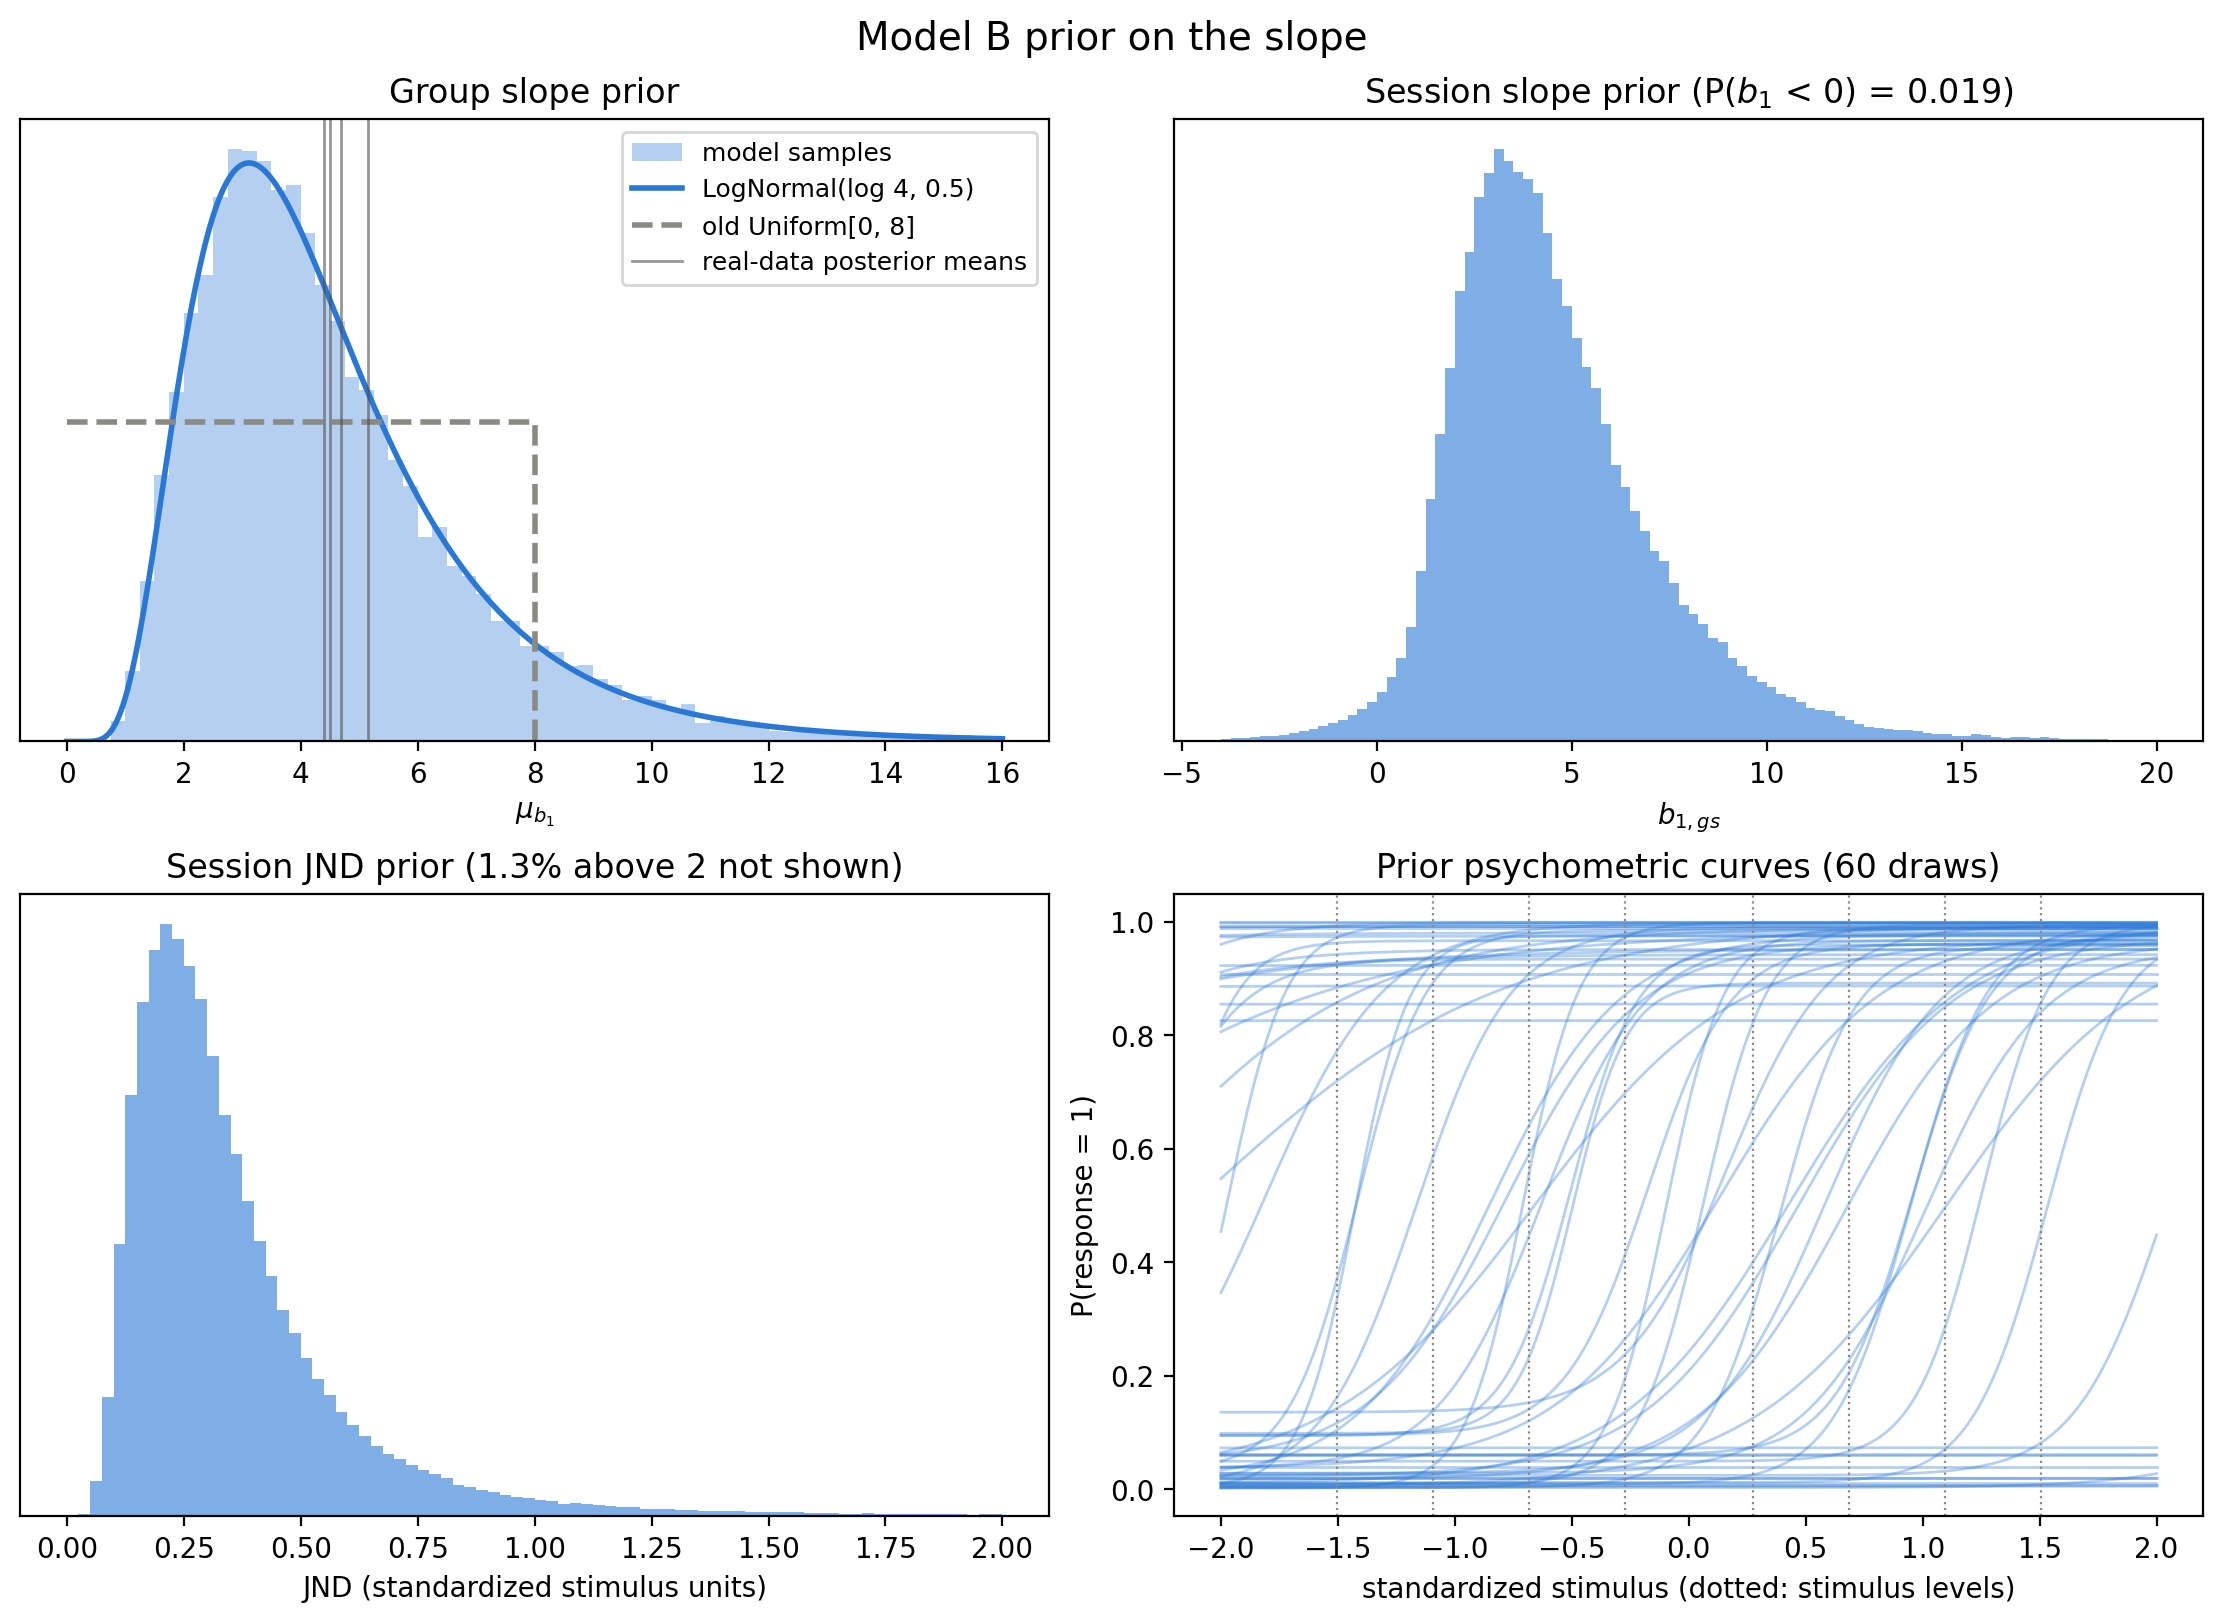
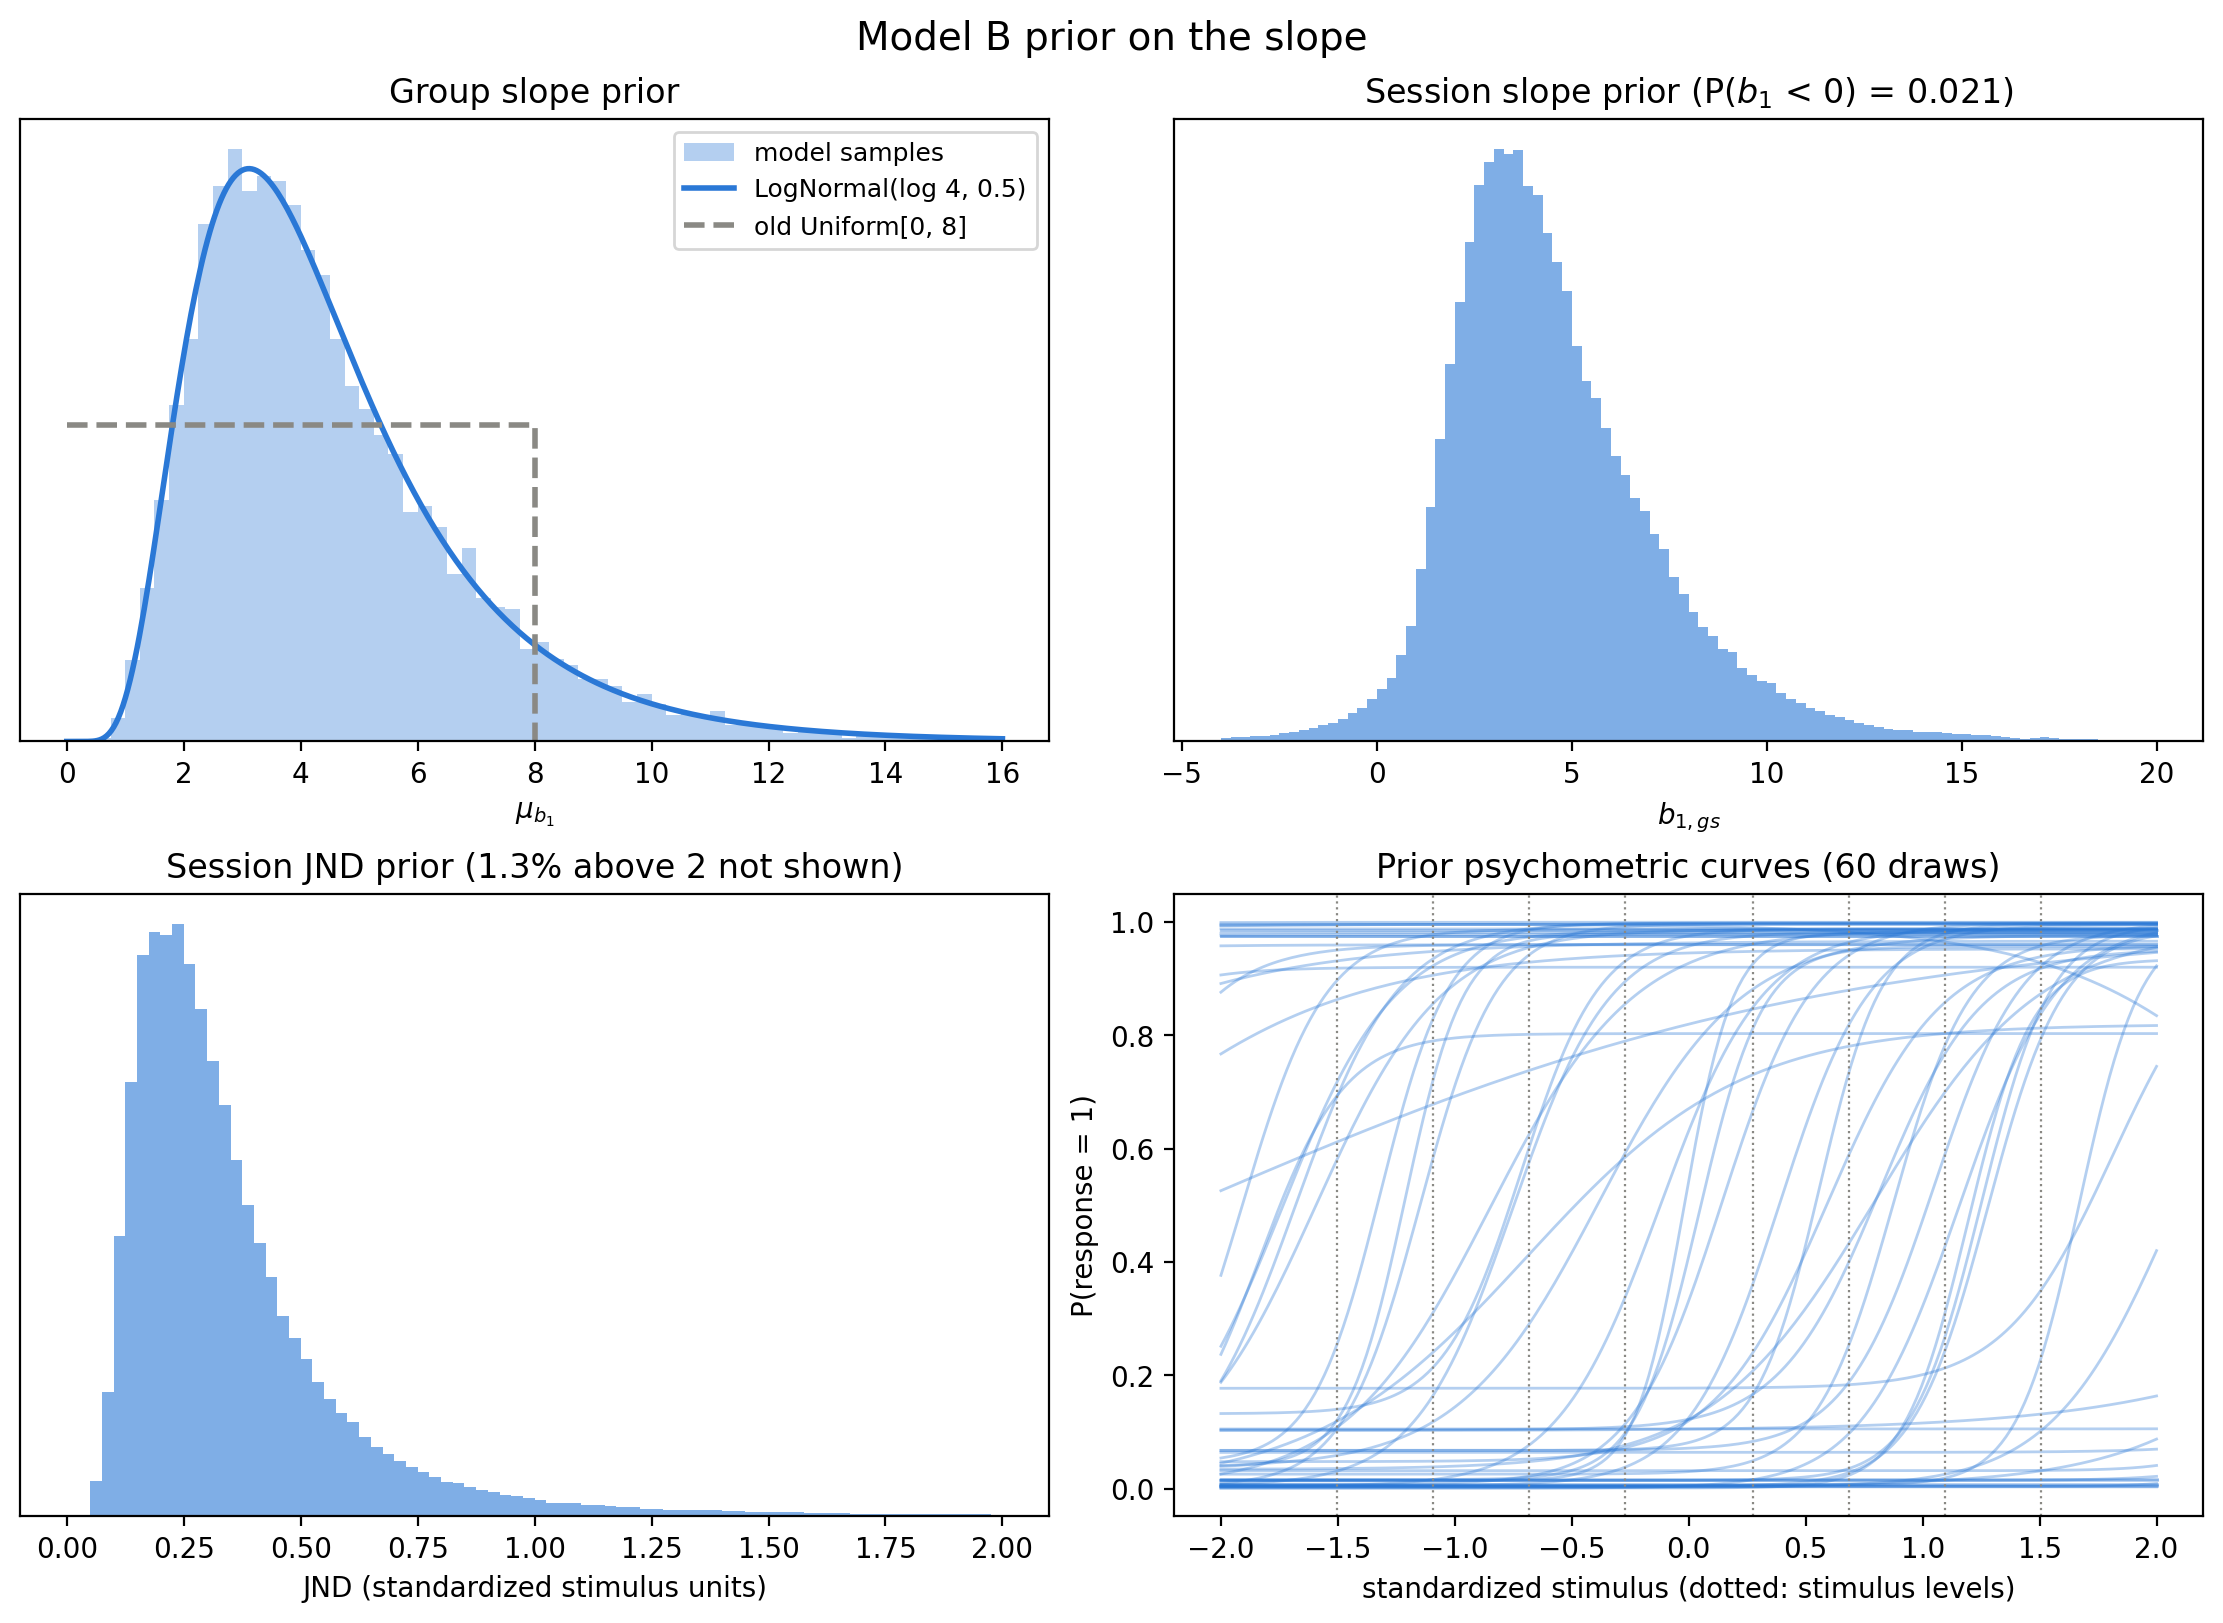
Claude: Widen the Model B lapse-rate prior and add a lapse prior check
mu_gam (for both gam_h and gam_l) had a N(-2.5, 1) prior. The
convergence study found mu_gam_l overestimated for the left-hand
groups, where the data hold only a couple of lapses per stimulus level
and a narrow prior dominates. mu_gam now has a N(-3, 1.5) prior: the
typical lapse rate 0.25 * logit^-1(mu_gam) has median 0.012 and 95%
range [0.0007, 0.12], chosen from domain knowledge (trained animals
lapse on a few percent of trials, rarely above ~10%) rather than from
the real-data fit.

Check_Prior_B.py:
- New cell plotting the typical and session-level lapse-rate priors,
  sampled from the model, against the old prior; saved as
  Plots_B/Prior_Check_B_lapse.png. Histograms use the fraction of
  samples per bin, since density=True distorts log-spaced bins.
- The real-data mu_b1 overlay is removed from the slope prior plot, so
  the prior checks don't lean on the fitted data.
- The quick lapse-rate cell at the top uses the new values.

Convergence_B_Report.txt lists the new mu_gam prior among the priors
changed since the simulations, and follow-up 2 notes the change.

diff --git a/Model_B/Check_Prior_B.py b/Model_B/Check_Prior_B.py
@@ -31,7 +31,7 @@ z_s = z_all[:,0]
 z_mu = z_all[:,1]
 z_sig = z_all[:,2]
 
-mu_gam = 1*z_mu+(-2.5)
+mu_gam = 1.5*z_mu+(-3)
 sig_gam = np.abs(1.25*z_sig)
 gam_samps = 0.25*(1 / (1 + np.exp(-(sig_gam*z_s+mu_gam))))
 
@@ -39,7 +39,8 @@ gam_samps = 0.25*(1 / (1 + np.exp(-(sig_gam*z_s+mu_gam))))
 plt.hist(gam_samps, density=True, bins=20)
 
 
-#%% SLOPE PRIOR: mu_b1 ~ LogNormal(log 4, 0.5), sig_b1 ~ Exp(mean 1), sampled from the actual model on the real design
+#%% SLOPE AND LAPSE PRIORS, sampled from the actual model on the real design
+# mu_b1 ~ LogNormal(log 4, 0.5), sig_b1 ~ Exp(mean 1), mu_gam ~ N(-3, 1.5)
 
 from pathlib import Path
 from scipy.stats import lognorm
@@ -59,7 +60,7 @@ sess_idx = data_dict['sess_idx']
 exec(open(MODEL_DIR / "Build_Model_B.py").read())
 
 with model_B:
-    prior = pm.sample_prior_predictive(draws=4000, var_names=['mu_betas', 'sig_betas', 'beta_vec', 'gam_h', 'gam_l', 'JND'],
+    prior = pm.sample_prior_predictive(draws=4000, var_names=['mu_betas', 'sig_betas', 'beta_vec', 'mu_gams', 'gam_h', 'gam_l', 'JND'],
                                        random_seed=1).prior
 
 mu_b1_samps = prior['mu_betas'].sel(betas='b1').values.ravel()
@@ -72,11 +73,8 @@ print(f"sig_b1 prior: mean {sig_b1_samps.mean():.2f}, 95% interval {np.round(np.
 print(f"session b1 prior: P(b1 < 0) = {np.mean(b1_samps < 0):.3f}")
 print(f"session JND prior (finite, b1 > 0): median {np.median(jnd_samps[b1_samps > 0]):.2f}")
 
-# real-data posterior means of mu_b1, from the fit with the old Uniform[0, 8] prior
-real_summary = pickle.load(open(MODEL_DIR / "Results_B.pkl", "rb"))['az_summary_trace']
-real_mu_b1 = real_summary.loc[real_summary.index.str.startswith('mu_betas[b1'), 'mean'].values
 
-BLUE, GRAY, INK = '#2a78d6', '#8a8984', '#52514e'
+BLUE, GRAY = '#2a78d6', '#8a8984'
 stim_levels = np.unique(np.round(cov_mat[:, 1], 3))
 
 fig, axes = plt.subplots(2, 2, figsize=(11, 8), constrained_layout=True)
@@ -86,8 +84,6 @@ grid = np.linspace(0, 16, 400)
 ax.hist(mu_b1_samps, bins=np.linspace(0, 16, 65), density=True, color=BLUE, alpha=0.35, label='model samples')
 ax.plot(grid, lognorm.pdf(grid, s=0.5, scale=4), color=BLUE, linewidth=2, label='LogNormal(log 4, 0.5)')
 ax.plot([0, 8, 8], [1/8, 1/8, 0], color=GRAY, linewidth=2, linestyle='--', label='old Uniform[0, 8]')
-for i, v in enumerate(real_mu_b1):
-    ax.axvline(v, color=INK, linewidth=1, alpha=0.6, label='real-data posterior means' if i == 0 else None)
 ax.set_xlabel('$\\mu_{b_1}$')
 ax.set_title('Group slope prior')
 ax.legend(fontsize=9)
@@ -121,6 +117,39 @@ for ax in axes.ravel()[:3]:
     ax.set_yticks([])
 fig.suptitle('Model B prior on the slope', fontsize=14)
 fig.savefig(MODEL_DIR / "Plots_B" / "Prior_Check_B_slope.png", dpi=200, bbox_inches='tight')
+plt.show()
+
+
+#%% Lapse-rate prior: typical lapse rate of a group and session-level lapse rates
+
+typical_gam = 0.25 / (1 + np.exp(-prior['mu_gams'].values.ravel()))
+typical_gam_old = 0.25 / (1 + np.exp(-norm.rvs(loc=-2.5, scale=1, size=typical_gam.size, random_state=3)))
+session_gam = np.concatenate([prior['gam_h'].values.ravel(), prior['gam_l'].values.ravel()])
+for name, s in [('typical gamma, N(-3, 1.5)', typical_gam), ('typical gamma, old N(-2.5, 1)', typical_gam_old),
+                ('session gamma', session_gam)]:
+    print(f"{name}: median {np.median(s):.4f}, 95% interval {np.round(np.percentile(s, [2.5, 97.5]), 4)}")
+
+fig, axes = plt.subplots(1, 2, figsize=(11, 4), constrained_layout=True)
+bins = np.logspace(-5, np.log10(0.25), 61)
+frac = lambda s: np.full(s.size, 1 / s.size)   # fraction of samples per bin; density=True would distort log-spaced bins
+
+ax = axes[0]
+ax.hist(typical_gam, bins=bins, weights=frac(typical_gam), color=BLUE, alpha=0.6, label='$\\mu_\\gamma$ ~ N(-3, 1.5)')
+ax.hist(typical_gam_old, bins=bins, weights=frac(typical_gam_old), histtype='step', color=GRAY, linewidth=2, linestyle='--',
+        label='old $\\mu_\\gamma$ ~ N(-2.5, 1)')
+ax.set_title('Typical lapse rate of a group, 0.25 logit$^{-1}(\\mu_\\gamma)$')
+ax.legend(fontsize=9)
+
+ax = axes[1]
+ax.hist(session_gam, bins=bins, weights=frac(session_gam), color=BLUE, alpha=0.6)
+ax.set_title('Session lapse rates $\\gamma_{h,gs}$, $\\gamma_{l,gs}$')
+
+for ax in axes:
+    ax.set_xscale('log')
+    ax.set_xlabel('lapse rate (log scale; capped at 0.25 by the model)')
+    ax.set_yticks([])
+fig.suptitle('Model B prior on the lapse rates', fontsize=14)
+fig.savefig(MODEL_DIR / "Plots_B" / "Prior_Check_B_lapse.png", dpi=200, bbox_inches='tight')
 plt.show()
 
 

diff --git a/Model_B/Build_Model_B.py b/Model_B/Build_Model_B.py
@@ -66,7 +66,7 @@ with pm.Model(coords=coords) as model_B:
     #Gamma (gamma_h and gamma_l hyperprior iid)
     #   gamma = 0.25 * w_gam
     #   w_gam ~ LogitNormal[ mu = mu_gam , sigma = sig_gam ]
-    #       mu_gam ~ N[ mu = -2.5, sigma = 1 ]
+    #       mu_gam ~ N[ mu = -3, sigma = 1.5 ]   (typical gamma: median 0.012, 95% in [0.0007, 0.12])
     #       sig_gam ~ HalfNormal[sig=1.25]
     # REPARAMETRIZATION LogitNormal: X ~ LogitNormal[ mu , sig ]
     #   Z ~ Normal[0,1]
@@ -75,7 +75,7 @@ with pm.Model(coords=coords) as model_B:
     #   Z ~ Normal[0,1]
     #   X = abs(  sig * Z  )
     z_mu_gams = pm.Normal("z_mu_gams", mu=0, sigma=1, dims = ('betas', 'groups'))
-    mu_gams = pm.Deterministic("mu_gams", z_mu_gams-2.5, dims = ('betas', 'groups'))
+    mu_gams = pm.Deterministic("mu_gams", 1.5*z_mu_gams - 3, dims = ('betas', 'groups'))
     z_sig_gams = pm.Normal("z_sig_gams", mu=0, sigma=1, dims = ('betas', 'groups'))
     sig_gams = pm.Deterministic('sig_gams', pm.math.abs(1.25*z_sig_gams), dims=('betas', 'groups'))
     z_gams = pm.Normal("z_gams", mu=0, sigma=1, dims=("betas", "groups", "sessions"))
